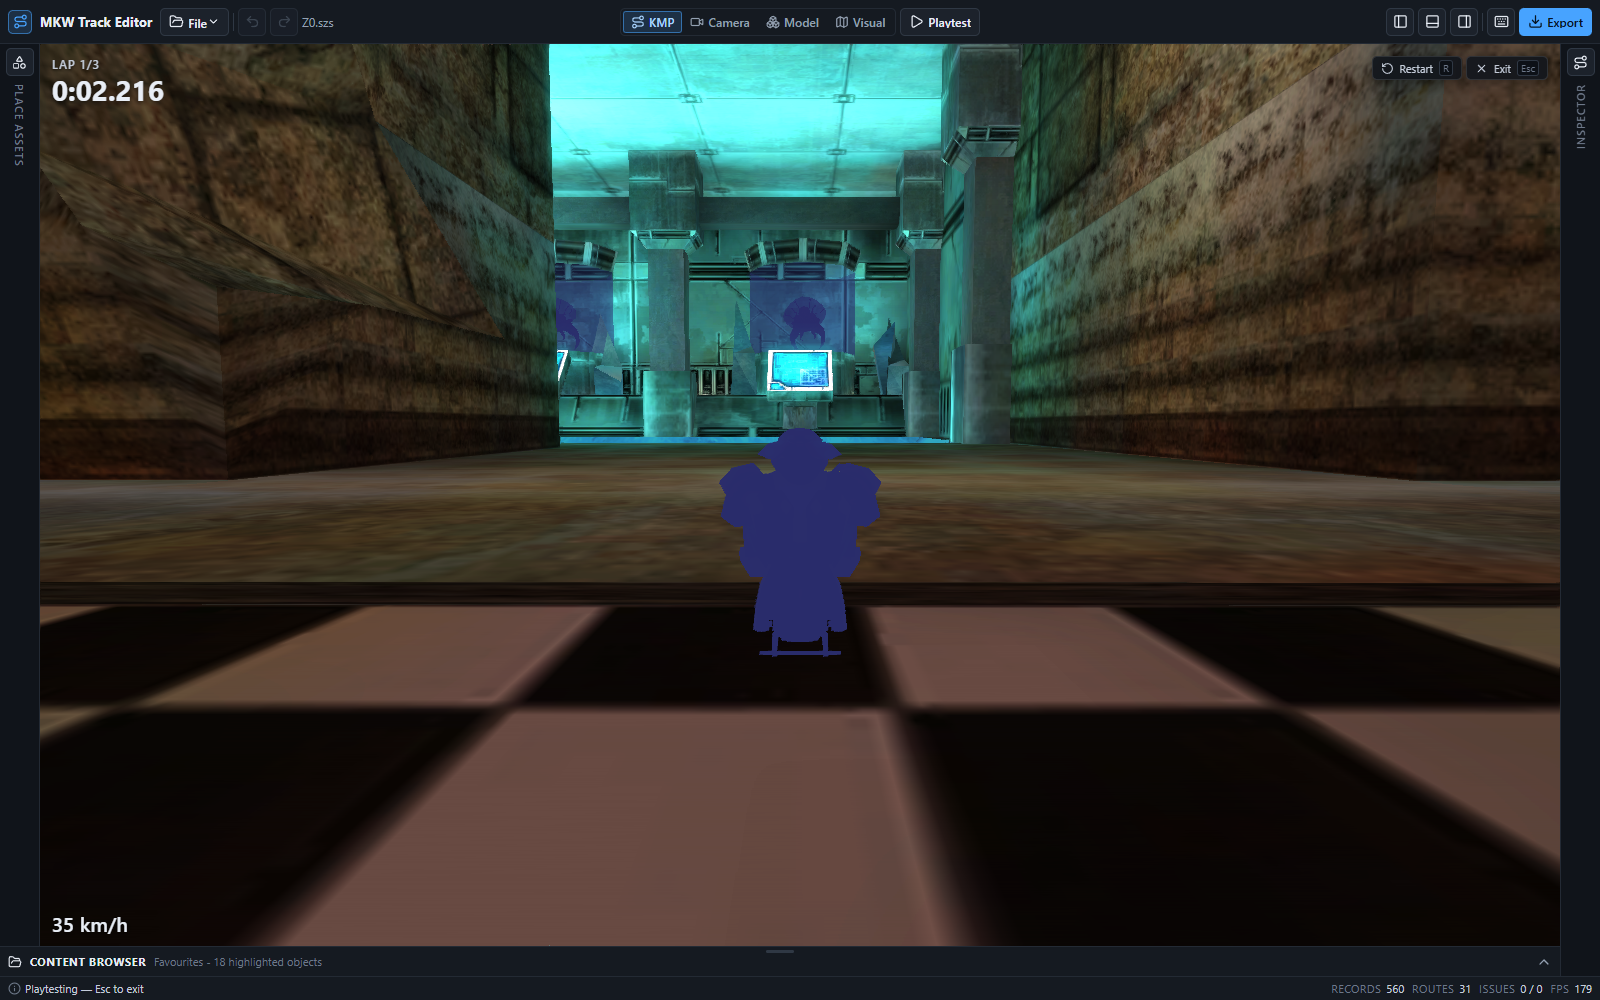
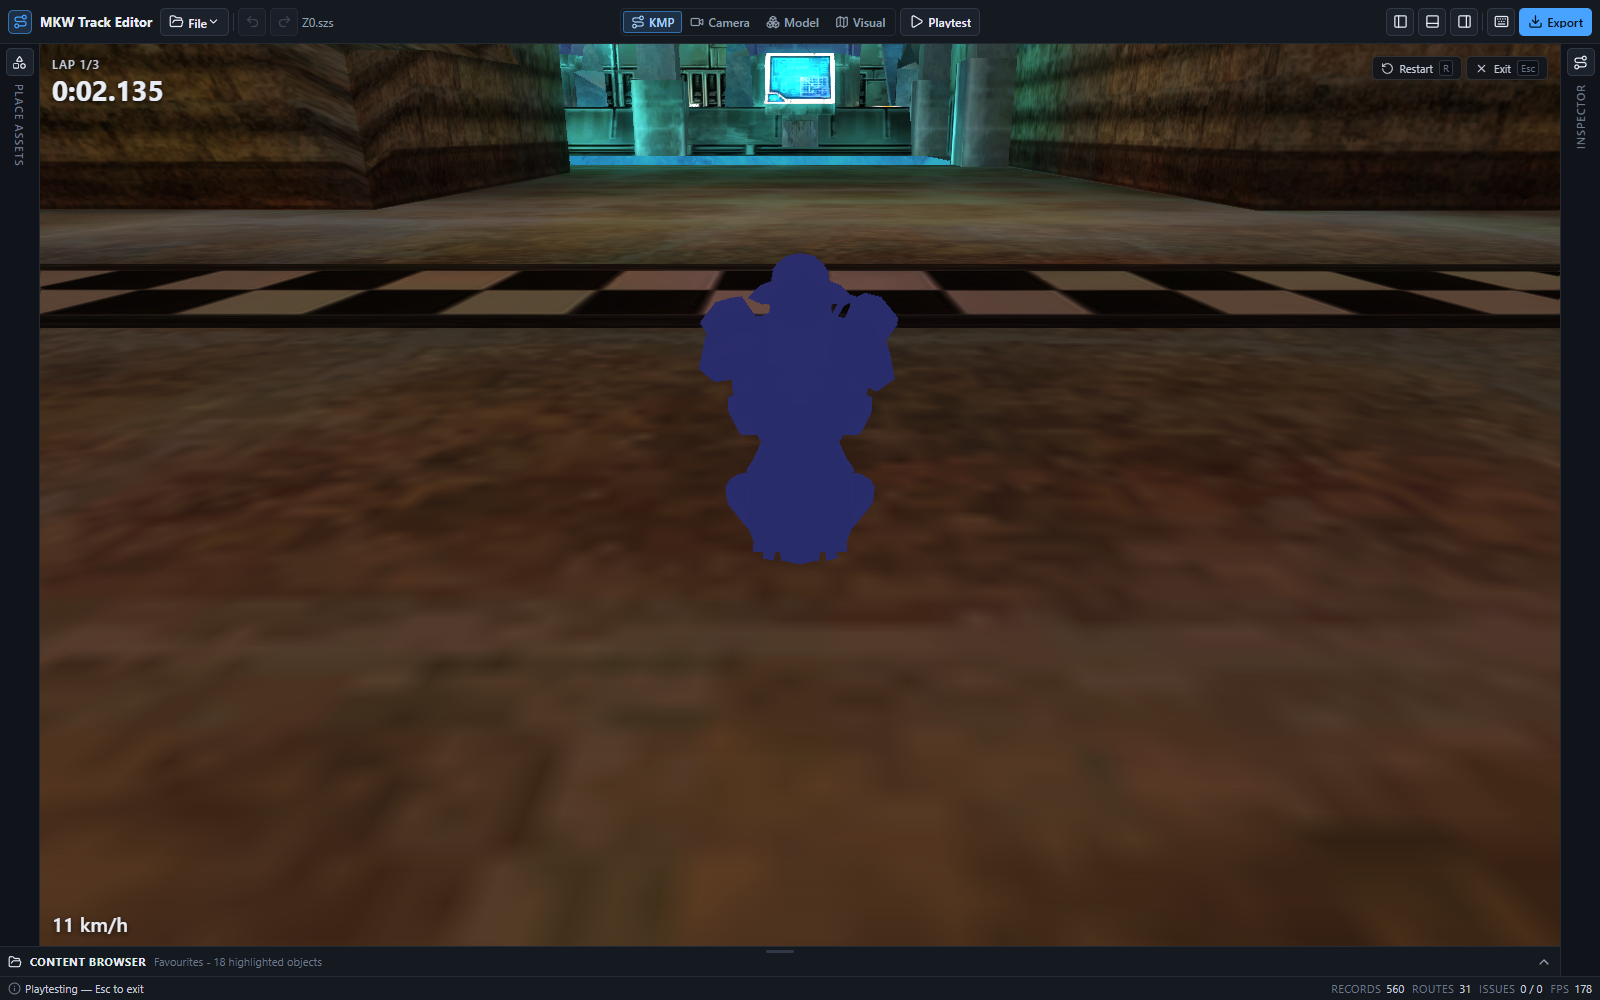
Wire the Kinoko runtime into the playtest UI
The playtest session now drives real physics: runtimeFactory points at
createKinokoRuntime, and the runtime accepts the bare U8 archive that
exportTrack({ compress: false }) produces by wrapping it in an
uncompressed Yaz0 header. Docs and the browser probe describe the
runtime that actually runs.

diff --git a/src/lib/playtest/kinokoRuntime.ts b/src/lib/playtest/kinokoRuntime.ts
@@ -11,6 +11,7 @@
 
 import createKinokoModule, { type KinokoModule, type KinokoPtr } from './wasm/kinoko.mjs';
 import kinokoWasmUrl from './wasm/kinoko.wasm?url';
+import { encodeYaz0Uncompressed } from '../yaz0';
 import {
   PlaytestError,
   type CreatePlaytestRuntimeOptions,
@@ -112,6 +113,21 @@ function isYaz0(bytes: Uint8Array): boolean {
   );
 }
 
+function isU8(bytes: Uint8Array): boolean {
+  return bytes.length >= 0x20 && bytes[0] === 0x55 && bytes[1] === 0xaa && bytes[2] === 0x38 && bytes[3] === 0x2d;
+}
+
+/**
+ * Kinoko only mounts Yaz0-wrapped archives. The editor's export path can hand us a bare U8
+ * archive (`exportTrack(..., { compress: false })`), so give it the cheap uncompressed wrapper
+ * instead of making every caller remember to.
+ */
+function asYaz0Archive(bytes: Uint8Array): Uint8Array | null {
+  if (isYaz0(bytes)) return bytes;
+  if (isU8(bytes)) return encodeYaz0Uncompressed(bytes);
+  return null;
+}
+
 class KinokoRuntime implements PlaytestRuntime {
   #module: KinokoModule | null;
   #onLog: (line: string) => void;
@@ -201,21 +217,22 @@ class KinokoRuntime implements PlaytestRuntime {
       throw new PlaytestError('Playtest runtime has been disposed.');
     }
 
-    if (!isYaz0(courseArchive)) {
+    const courseSzs = asYaz0Archive(courseArchive);
+    if (!courseSzs) {
       this.#fail(
         'load the course',
-        'the archive is not a Yaz0 .szs (it does not start with the Yaz0 magic)',
+        'the archive is neither a Yaz0 .szs nor a U8 archive (bad magic)',
       );
     }
 
-    const commonArchive = this.#commonArchive;
-    if (!isYaz0(commonArchive)) {
-      this.#fail('load the course', 'Race/Common.szs is not a Yaz0 .szs');
+    const commonArchive = asYaz0Archive(this.#commonArchive);
+    if (!commonArchive) {
+      this.#fail('load the course', 'Race/Common.szs is neither a Yaz0 .szs nor a U8 archive');
     }
 
     const status = this.#guard('load the course', (module) => {
       this.#provideFile(module, COMMON_ARCHIVE_PATH, commonArchive);
-      this.#provideFile(module, COURSE_ARCHIVE_PATH, courseArchive);
+      this.#provideFile(module, COURSE_ARCHIVE_PATH, courseSzs);
       return module._kinoko_load_course(
         options.character,
         options.vehicle,

diff --git a/src/ui/playtest/runtimeFactory.ts b/src/ui/playtest/runtimeFactory.ts
@@ -1,4 +1,4 @@
-import { createMockPlaytestRuntime } from '../../lib/playtest/mockRuntime';
+import { createKinokoRuntime } from '../../lib/playtest/kinokoRuntime';
 import type { PlaytestRuntimeFactory } from '../../lib/playtest/types';
 
 /**
@@ -7,12 +7,9 @@ import type { PlaytestRuntimeFactory } from '../../lib/playtest/types';
  * Everything else — `usePlaytestSession`, the viewport, the HUD — goes through this constant and
  * only ever sees the `PlaytestRuntime` interface from `src/lib/playtest/types.ts`.
  *
- * INTEGRATOR: once the Kinoko WebAssembly half has landed, import `createKinokoRuntime` from
- * `../../lib/playtest/kinokoRuntime` instead of `createMockPlaytestRuntime`, and assign it to
- * `playtestRuntimeFactory` below. That is the whole integration.
- *
- * Nothing else in `src/ui/` has to change. `createMockPlaytestRuntime` stays in the tree: it is
- * what the unit tests and `scripts/probe-playtest.js` run against, so the UI can be exercised
- * without WASM.
+ * The app runs Kinoko (Mario Kart Wii's physics engine compiled to WebAssembly; see
+ * `docs/PLAYTEST.md`). `createMockPlaytestRuntime` in `src/lib/playtest/mockRuntime.ts` implements
+ * the same interface with a kinematic stand-in; the unit tests use it, and swapping it in here
+ * lets the UI be exercised without the WASM module.
  */
-export const playtestRuntimeFactory: PlaytestRuntimeFactory = createMockPlaytestRuntime;
+export const playtestRuntimeFactory: PlaytestRuntimeFactory = createKinokoRuntime;

diff --git a/src/lib/playtest/kinokoRuntime.test.ts b/src/lib/playtest/kinokoRuntime.test.ts
@@ -21,6 +21,7 @@ import {
   type PlaytestRuntime,
 } from './types';
 import { listTracks, NINTENDO_TRACK_DIR, CUSTOM_TRACK_DIR } from '../realTrackFixtures.testdata';
+import { decodeYaz0 } from '../yaz0';
 
 const COMMON_PATH = 'public/data/MarioKartWii/Race/Common.szs';
 const WASM_PATH = 'src/lib/playtest/wasm/kinoko.wasm';
@@ -173,6 +174,17 @@ describe.skipIf(!haveFixtures)('kinokoRuntime', () => {
       for (let i = 0; i < 480; i++) runtime.step();
       expect(runtime.readRaceState().stage).not.toBe('intro');
       expect(Number.isFinite(runtime.readKartState().speed)).toBe(true);
+    } finally {
+      runtime.dispose();
+    }
+  }, 120_000);
+
+  it('accepts a bare U8 archive, which is what exportTrack({ compress: false }) produces', async () => {
+    const runtime = await makeRuntime();
+    try {
+      runtime.loadCourse(decodeYaz0(read(nintendoTrack!)), DEFAULT_PLAYTEST_COURSE_OPTIONS);
+      runtime.step();
+      expect(runtime.readRaceState().frame).toBe(1);
     } finally {
       runtime.dispose();
     }

diff --git a/scripts/probe-playtest.js b/scripts/probe-playtest.js
@@ -1,11 +1,10 @@
-// Body for scripts/ui-shell-probe.mjs. Drives the whole playtest feature against the mock
-// runtime: opens the top-bar popover, starts a session, holds accelerate through the countdown
-// and into the race, restarts, and leaves. Reports enough for Node to assert on.
+// Body for scripts/ui-shell-probe.mjs. Drives the whole playtest feature against whichever
+// runtime src/ui/playtest/runtimeFactory.ts selects (Kinoko in the app): opens the top-bar
+// popover, starts a session, holds accelerate through the countdown and into the race, restarts,
+// and leaves. Reports enough for Node to assert on.
 //
 //   node scripts/ui-shell-probe.mjs "http://127.0.0.1:5186/?smokeTrack=/dev-tracks/Z0.szs" scripts/probe-playtest.js
 //
-// The session runs against `createMockPlaytestRuntime` (see src/ui/playtest/runtimeFactory.ts),
-// so this probe never needs the Kinoko WebAssembly module.
 
 const prefix = window.__probePrefix ?? 'playtest';
 const report = { prefix };

diff --git a/docs/PLAYTEST.md b/docs/PLAYTEST.md
@@ -214,7 +214,8 @@ during `'intro'` the camera already sits behind the kart.
 course from `public/dev-tracks/` (falling back to the Dolphin track folders in
 `src/lib/realTrackFixtures.testdata.ts`), holds accelerate through the intro and countdown and for
 600 racing frames, and checks the kart moved, the stage progressed, `restart()` returned it to the
-start, and that both a non-Yaz0 archive and a malformed-but-Yaz0 archive raise `PlaytestError`.
+start, that a bare U8 archive (what `exportTrack({ compress: false })` produces) is accepted, and
+that both a garbage archive and a malformed-but-Yaz0 archive raise `PlaytestError`.
 It skips itself when the fixtures are not on the machine. It also prints the average `step()` cost.
 
 For a wider check after touching the engine:
@@ -253,11 +254,12 @@ one error toast. Loading a different track while a session is running ends it to
 `src/ui/playtest/runtimeFactory.ts` is the only place that names a concrete runtime:
 
 ```ts
-export const playtestRuntimeFactory: PlaytestRuntimeFactory = createMockPlaytestRuntime;
+export const playtestRuntimeFactory: PlaytestRuntimeFactory = createKinokoRuntime;
 ```
 
-After the WebAssembly half merges, change that one line to `createKinokoRuntime` from
-`src/lib/playtest/kinokoRuntime.ts`. Nothing else in `src/ui/` refers to either implementation.
+Nothing else in `src/ui/` refers to an implementation. `createMockPlaytestRuntime` from
+`src/lib/playtest/mockRuntime.ts` implements the same interface with a kinematic stand-in; swap it
+in here to exercise the UI without the WebAssembly module.
 
 ### The frame loop
 
@@ -373,7 +375,7 @@ unit-tested in `playtestHudModel.ts`.
 | `src/ui/playtest/playtestChaseCamera.test.ts` | Quaternion rotation, the camera goal, frame-rate-independent smoothing, convergence. |
 | `src/ui/playtest/playtestHudModel.test.ts` | Time, speed and countdown formatting. |
 
-`scripts/probe-playtest.js` drives the whole feature in a real browser, against the mock runtime:
+`scripts/probe-playtest.js` drives the whole feature in a real browser, with the Kinoko runtime:
 
 ```bash
 npx vite --host 127.0.0.1 --port 5194 --strictPort

diff --git a/docs/ARCHITECTURE.md b/docs/ARCHITECTURE.md
@@ -50,7 +50,7 @@ and nothing outside `src/lib/playtest/` touches WebAssembly.
 | `src/lib/playtest/types.ts` | `PlaytestRuntime` and everything it exchanges: input, kart pose, race state, camera pose, the character/vehicle tables. |
 | `src/lib/playtest/mockRuntime.ts` | A deterministic kinematic stand-in implementing the same interface, so the UI can be built, tested and probed without WASM. |
 | `src/lib/playtest/playtestLoop.ts` | `planFixedSteps`: real elapsed milliseconds → whole 60 Hz steps, with capped catch-up. |
-| `src/ui/playtest/runtimeFactory.ts` | The single place that picks a runtime. One line to swap the mock for Kinoko. |
+| `src/ui/playtest/runtimeFactory.ts` | The single place that picks a runtime: Kinoko in the app, the mock for UI-only testing. |
 | `src/ui/playtest/usePlaytestSession.ts` | Session lifecycle: packing the course, creating the runtime, the controller listeners, the HUD sample, the borrowed dock layout. |
 | `src/ui/playtest/playtestInput.ts` | Pure keyboard/gamepad → `PlaytestInput` mapping and the controls summary. |
 | `src/ui/playtest/playtestChaseCamera.ts`, `playtestCamera.ts` | The chase-camera maths, and the `CameraController` installed for the session. |
